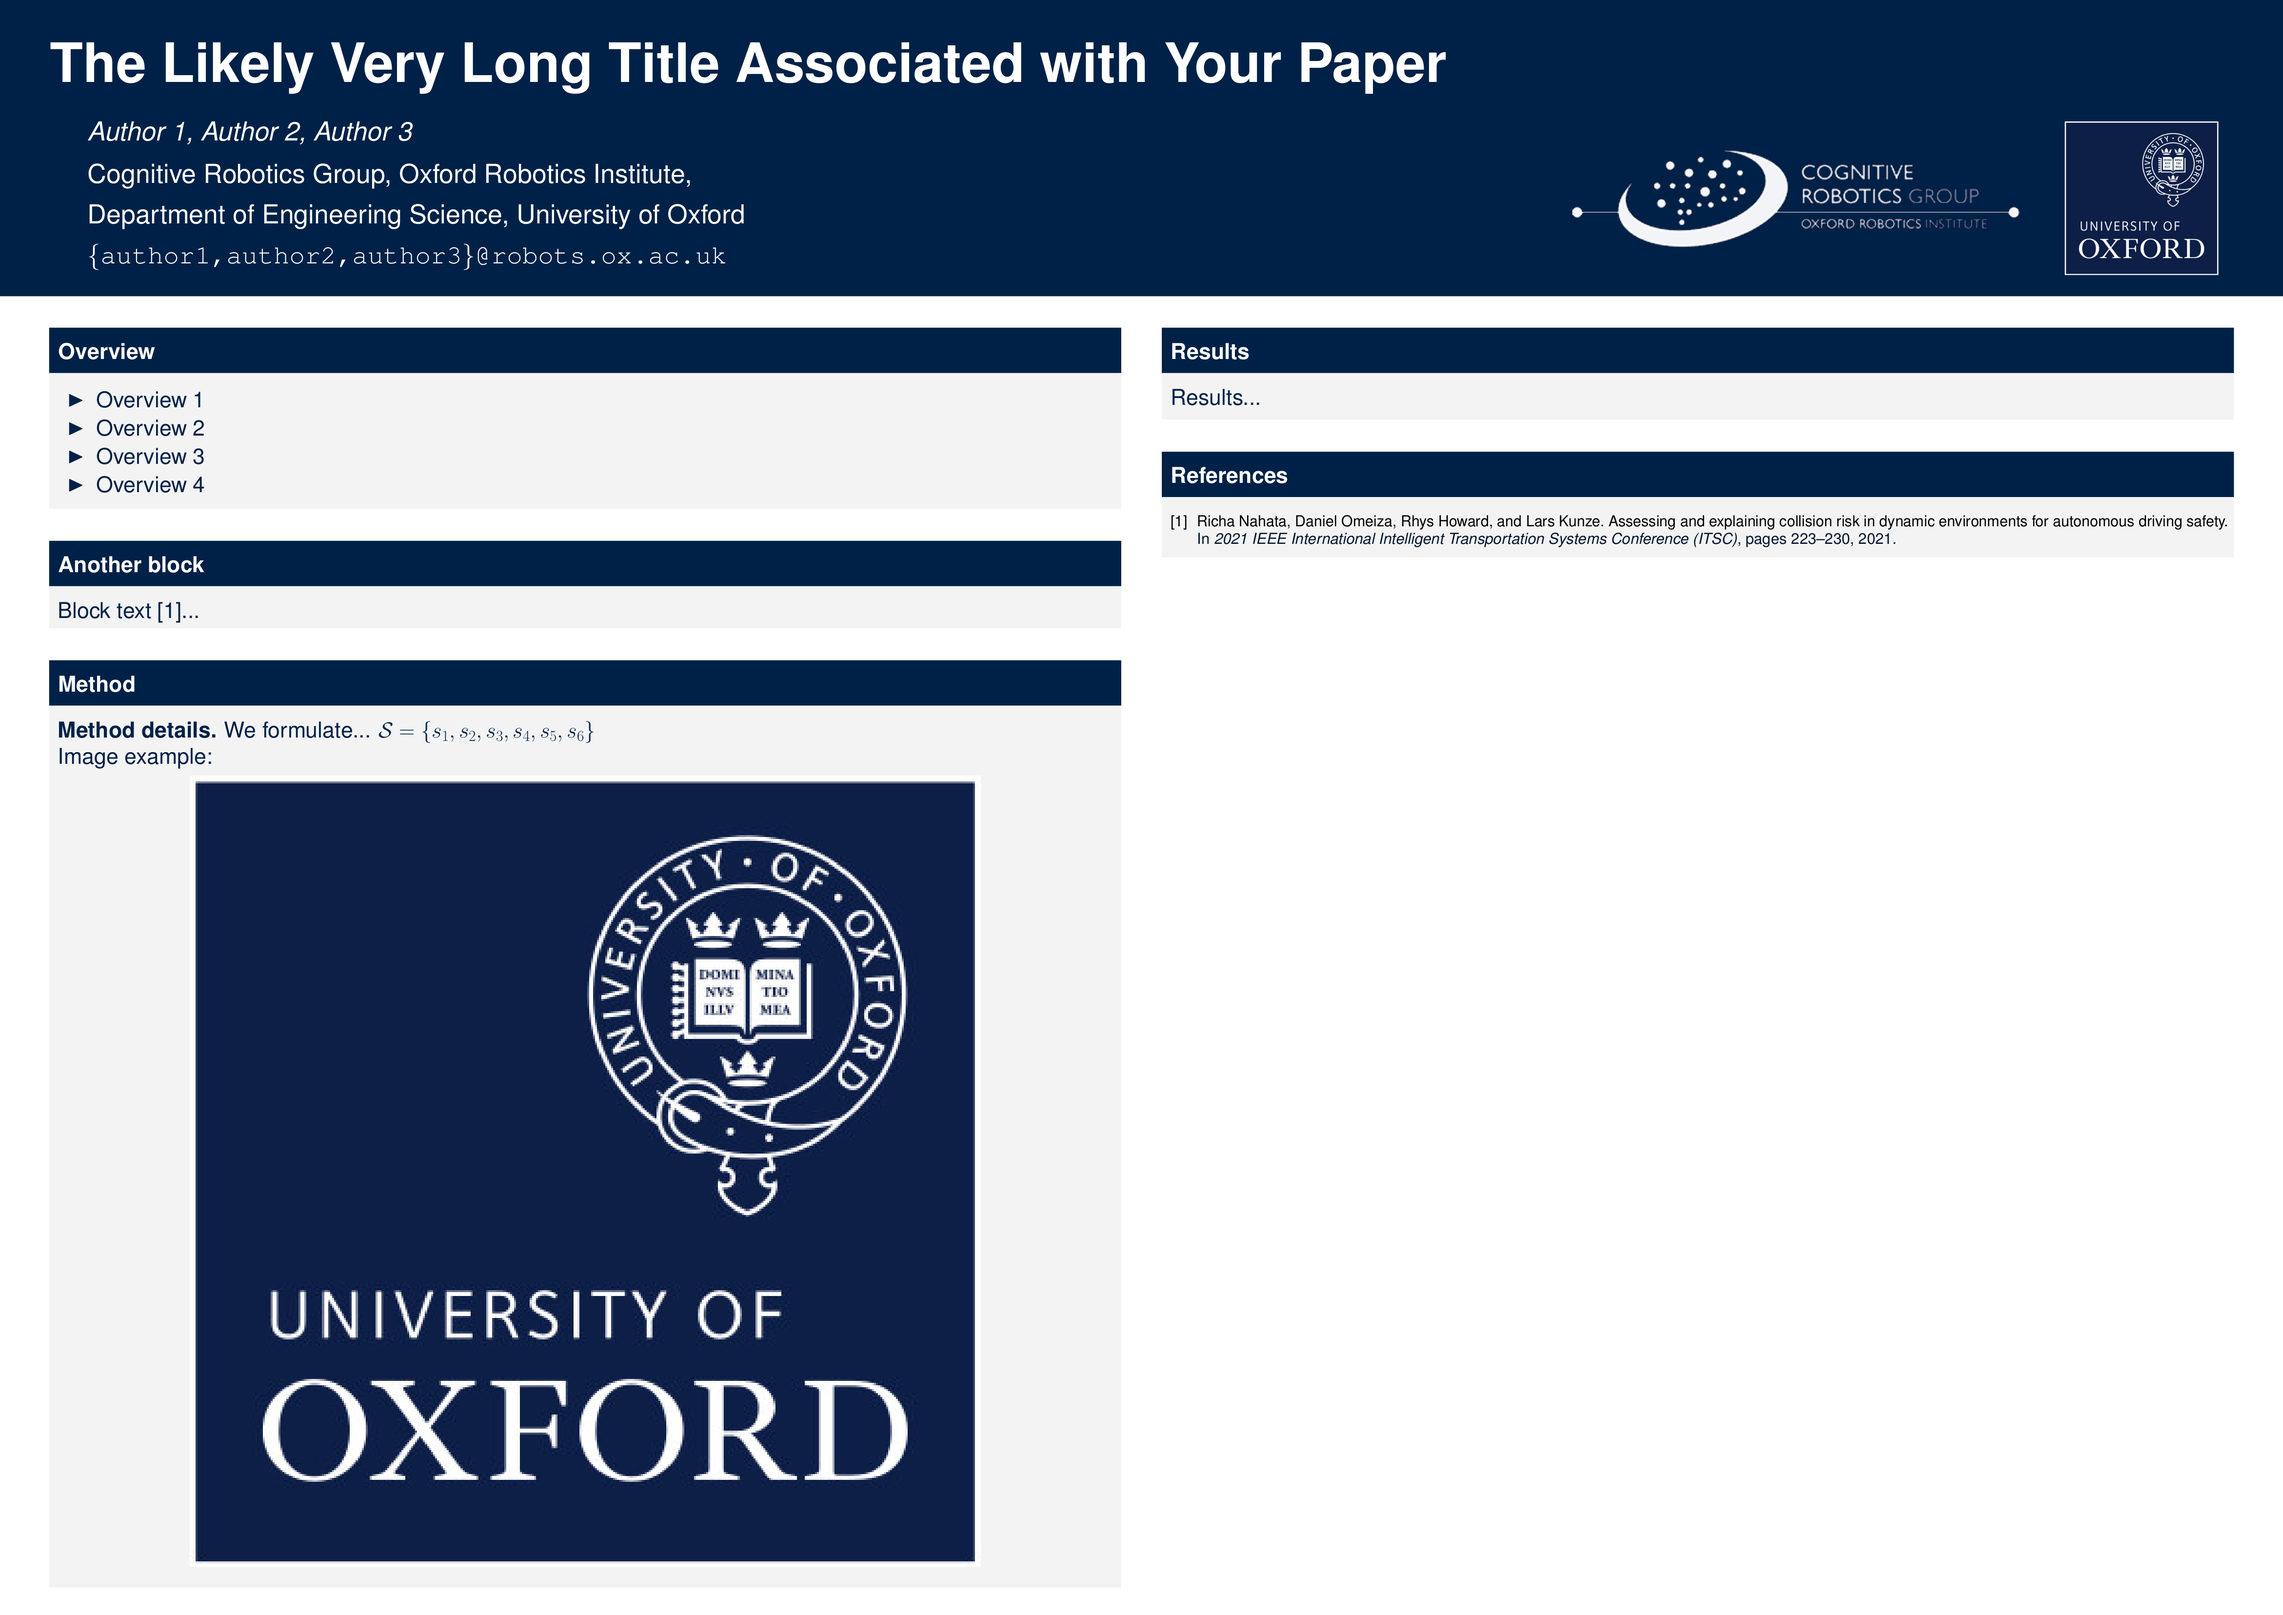
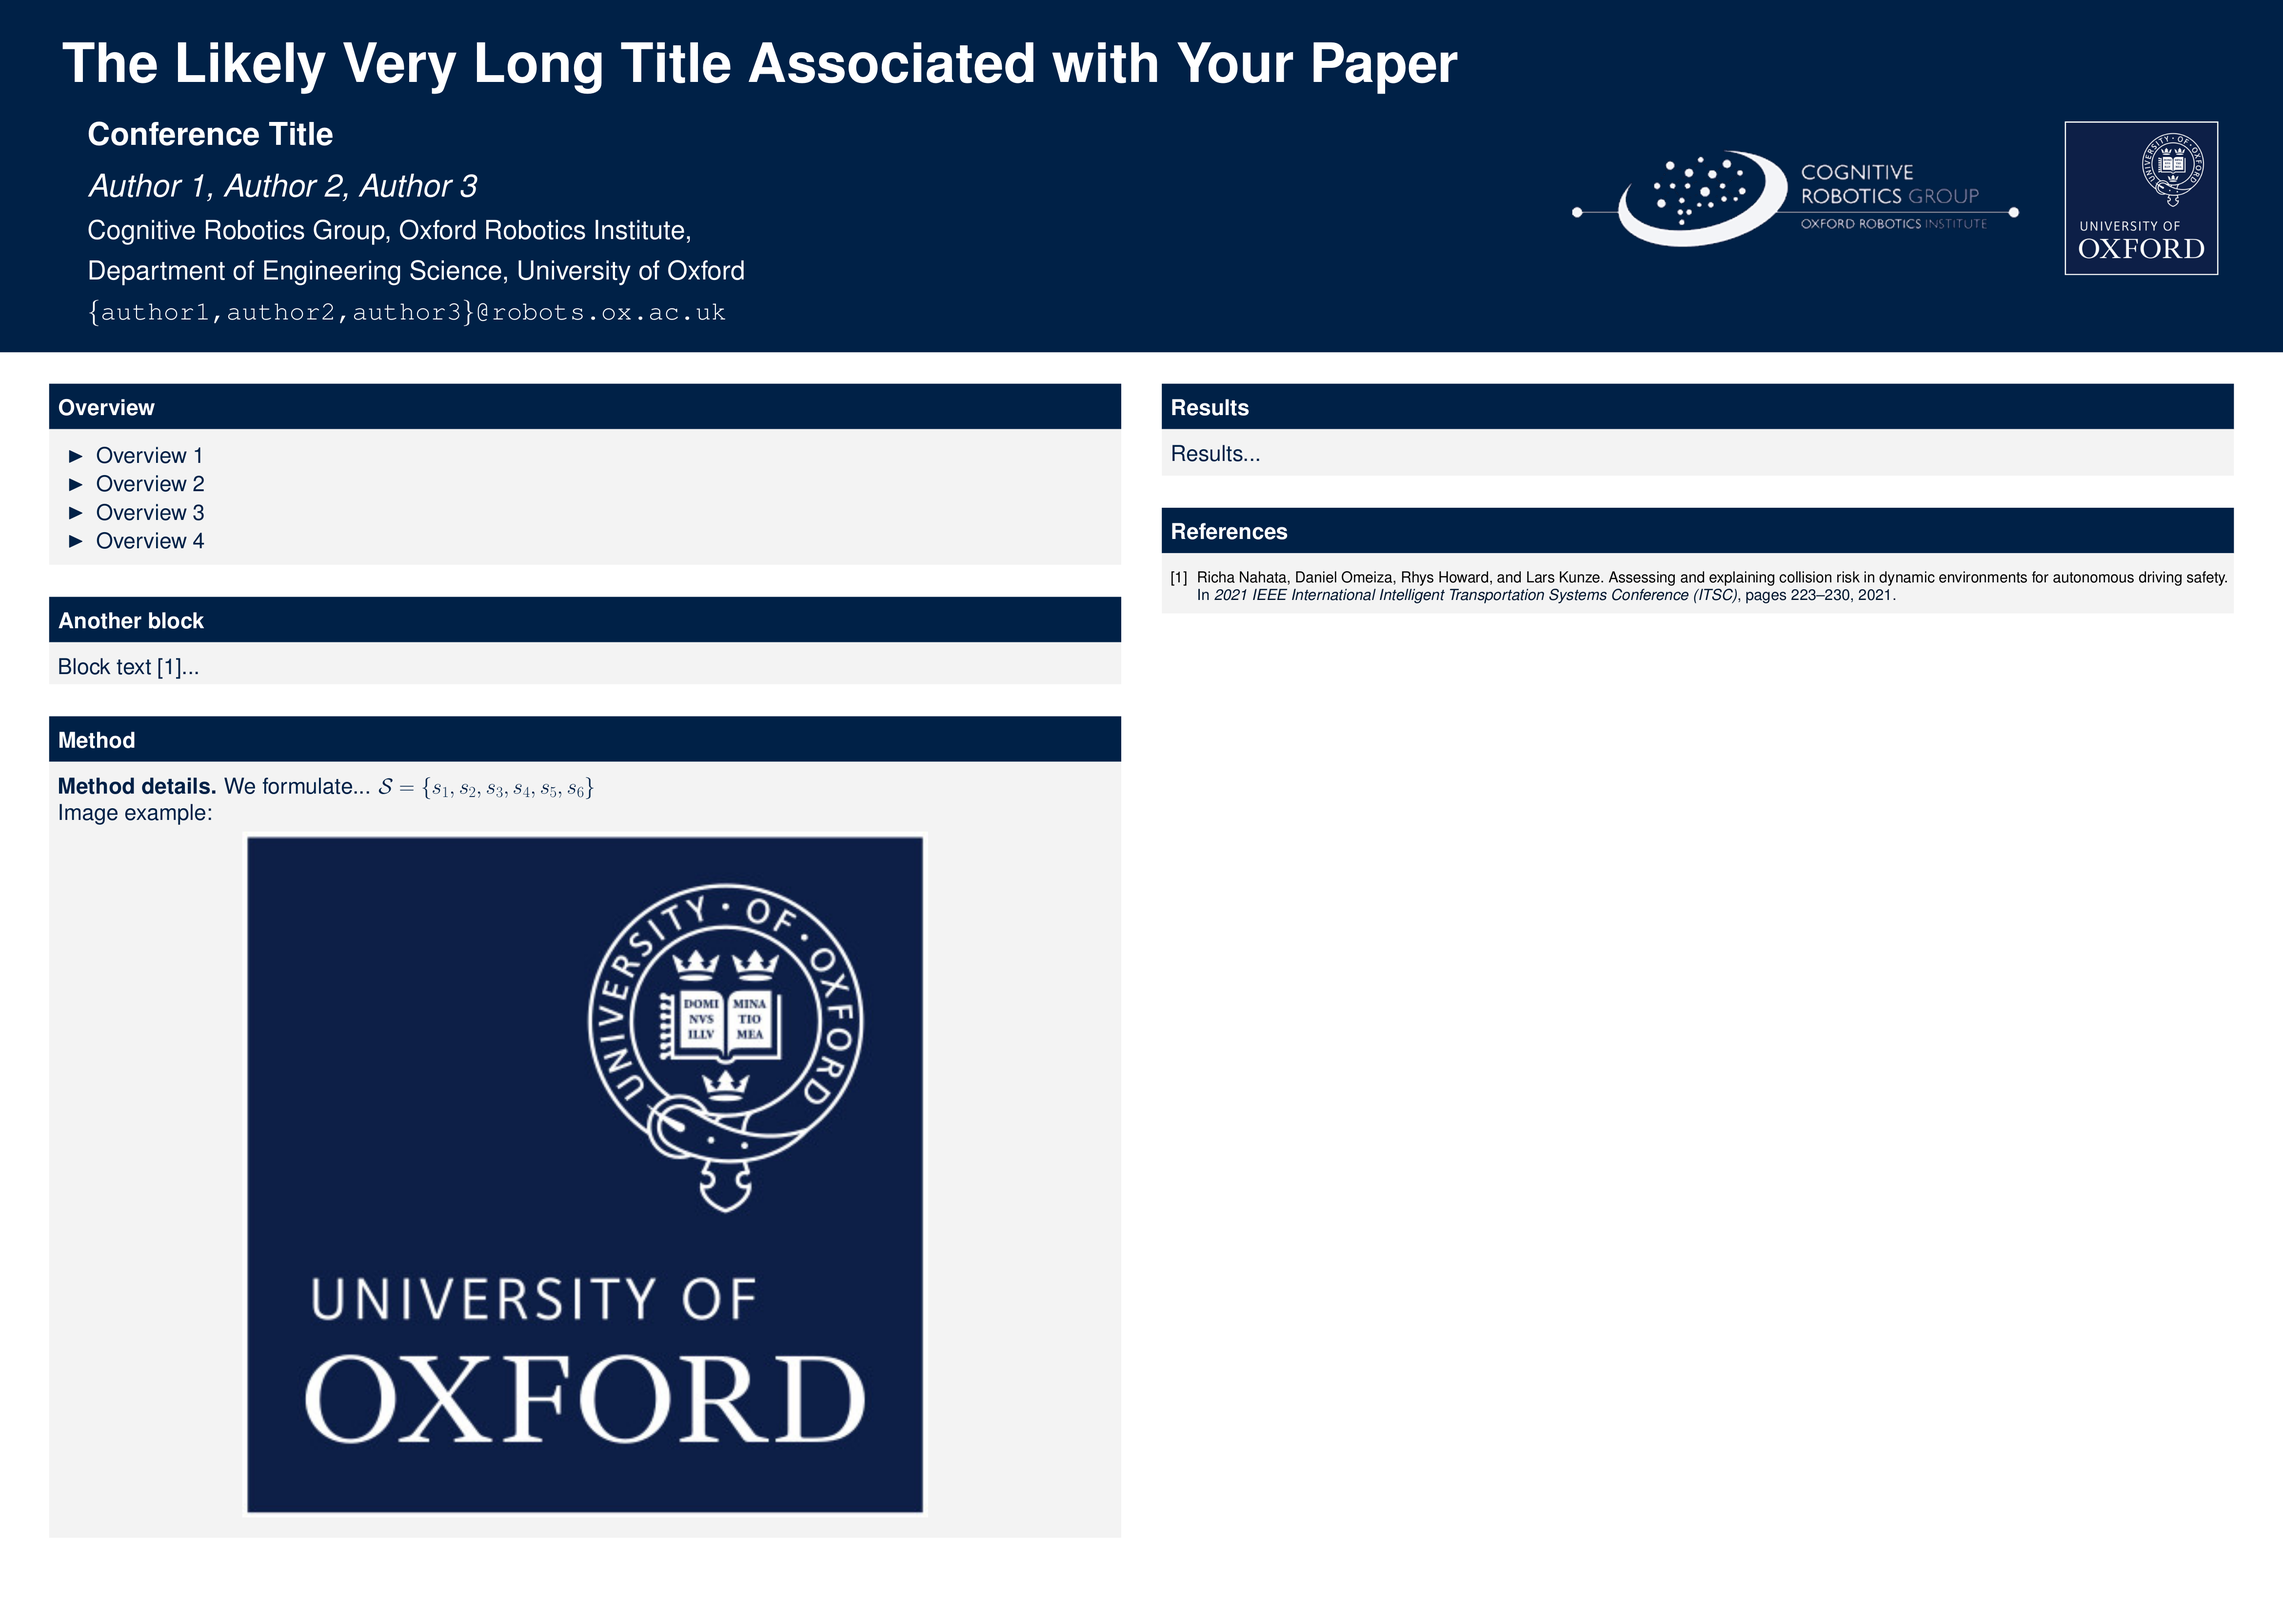
Fixed conference title and updated example posters

Changed region(s): [[0.0, 0.0311, 1.0, 0.9955]]

diff --git a/oxford_poster.tex b/oxford_poster.tex
@@ -52,10 +52,10 @@
 %   TITLE SECTION 
 %----------------------------------------------------------------------------------------
 \title{ 
-\Huge The Likely Very Long Title Associated with Your Paper\\[1cm]
-\,\;\Large Conference Title
+\Huge The Likely Very Long Title Associated with Your Paper
 } % Poster title
-\author{\textit{Author 1, Author 2, Author 3}}
+\author{\Large \textbf{Conference Title}\\[1cm]
+\textit{Author 1, Author 2, Author 3}}
 \institute{Cognitive Robotics Group, Oxford Robotics Institute, \\\vspace{4mm}Department of Engineering Science, University of Oxford\\\vspace{4mm}
 \texttt{\{author1,author2,author3\}@robots.ox.ac.uk}}
 
@@ -102,7 +102,7 @@
 
       Image example:
       \begin{center}
-        \includegraphics[width=0.75\columnwidth]{oxford_logo.jpg}
+        \includegraphics[width=0.65\columnwidth]{oxford_logo.jpg}
       \end{center}
     \end{block}
   \end{column} % End of the 1st column
